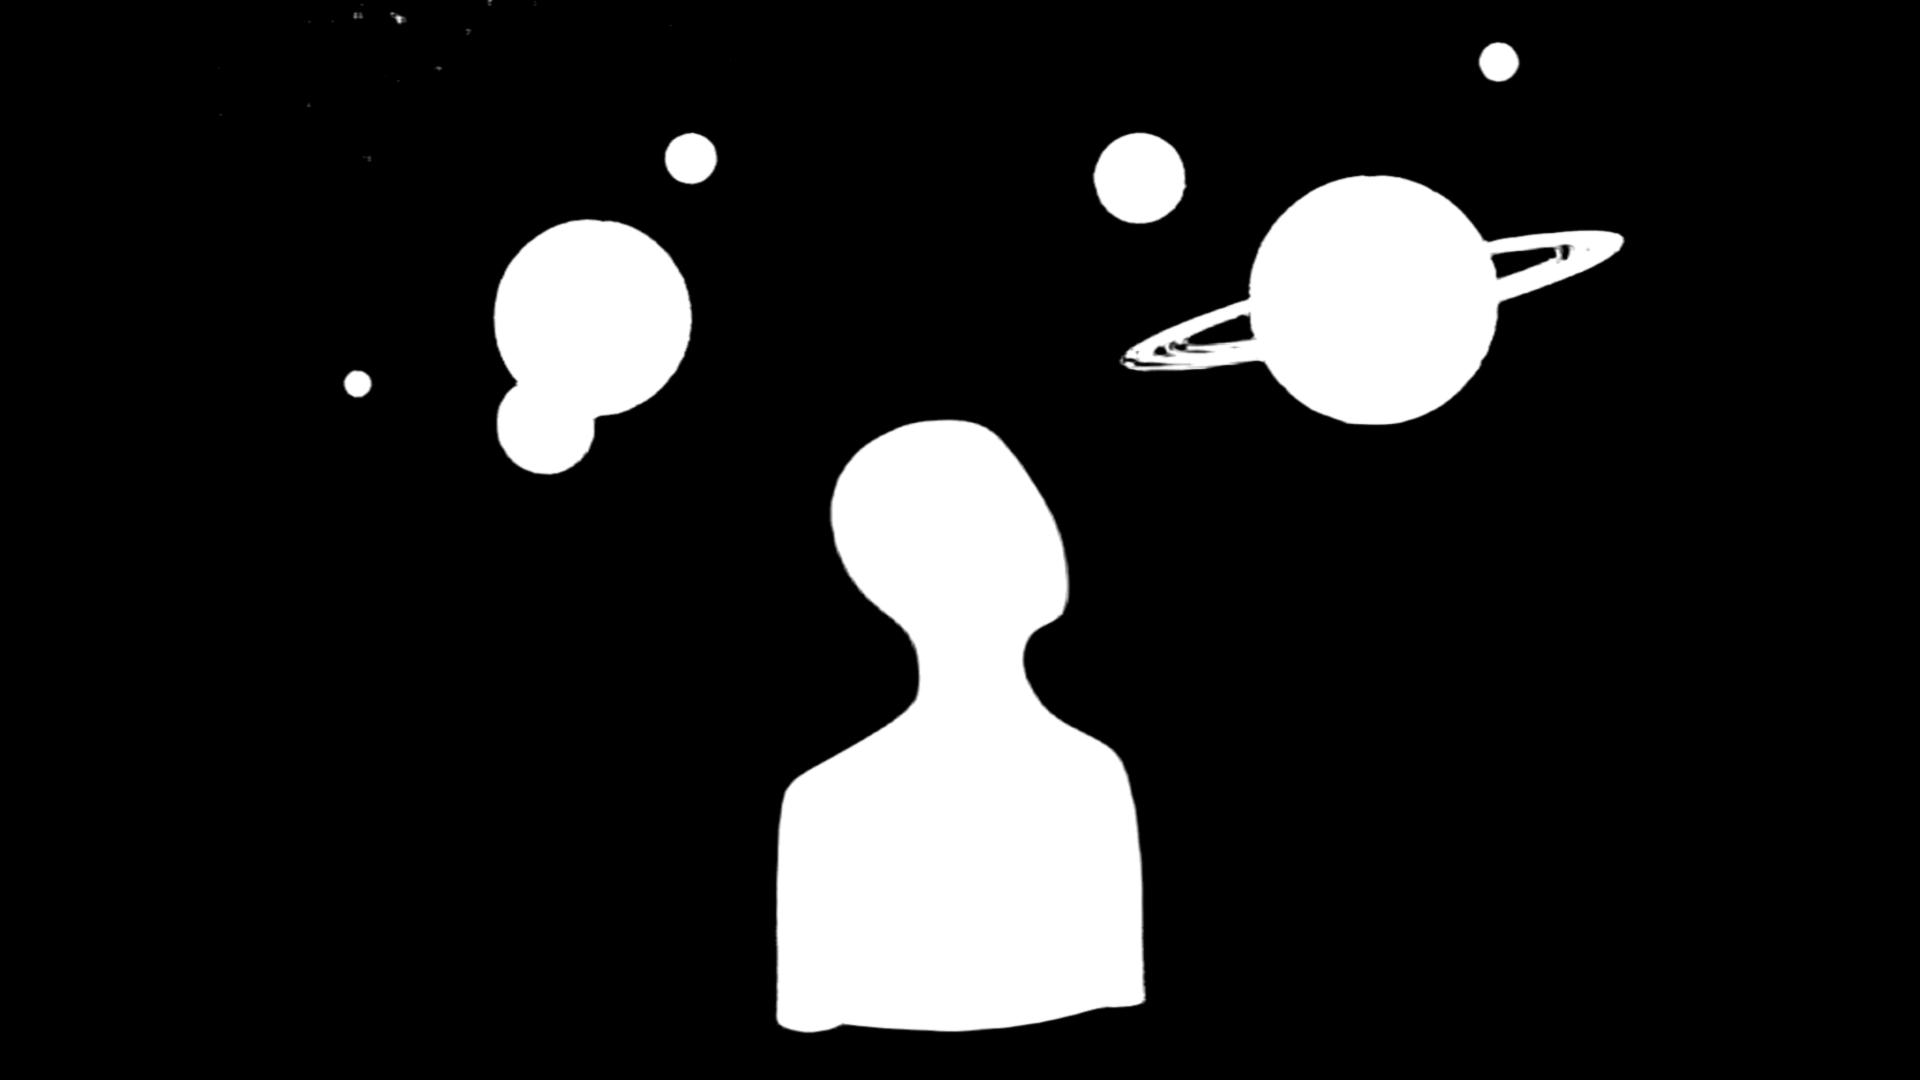
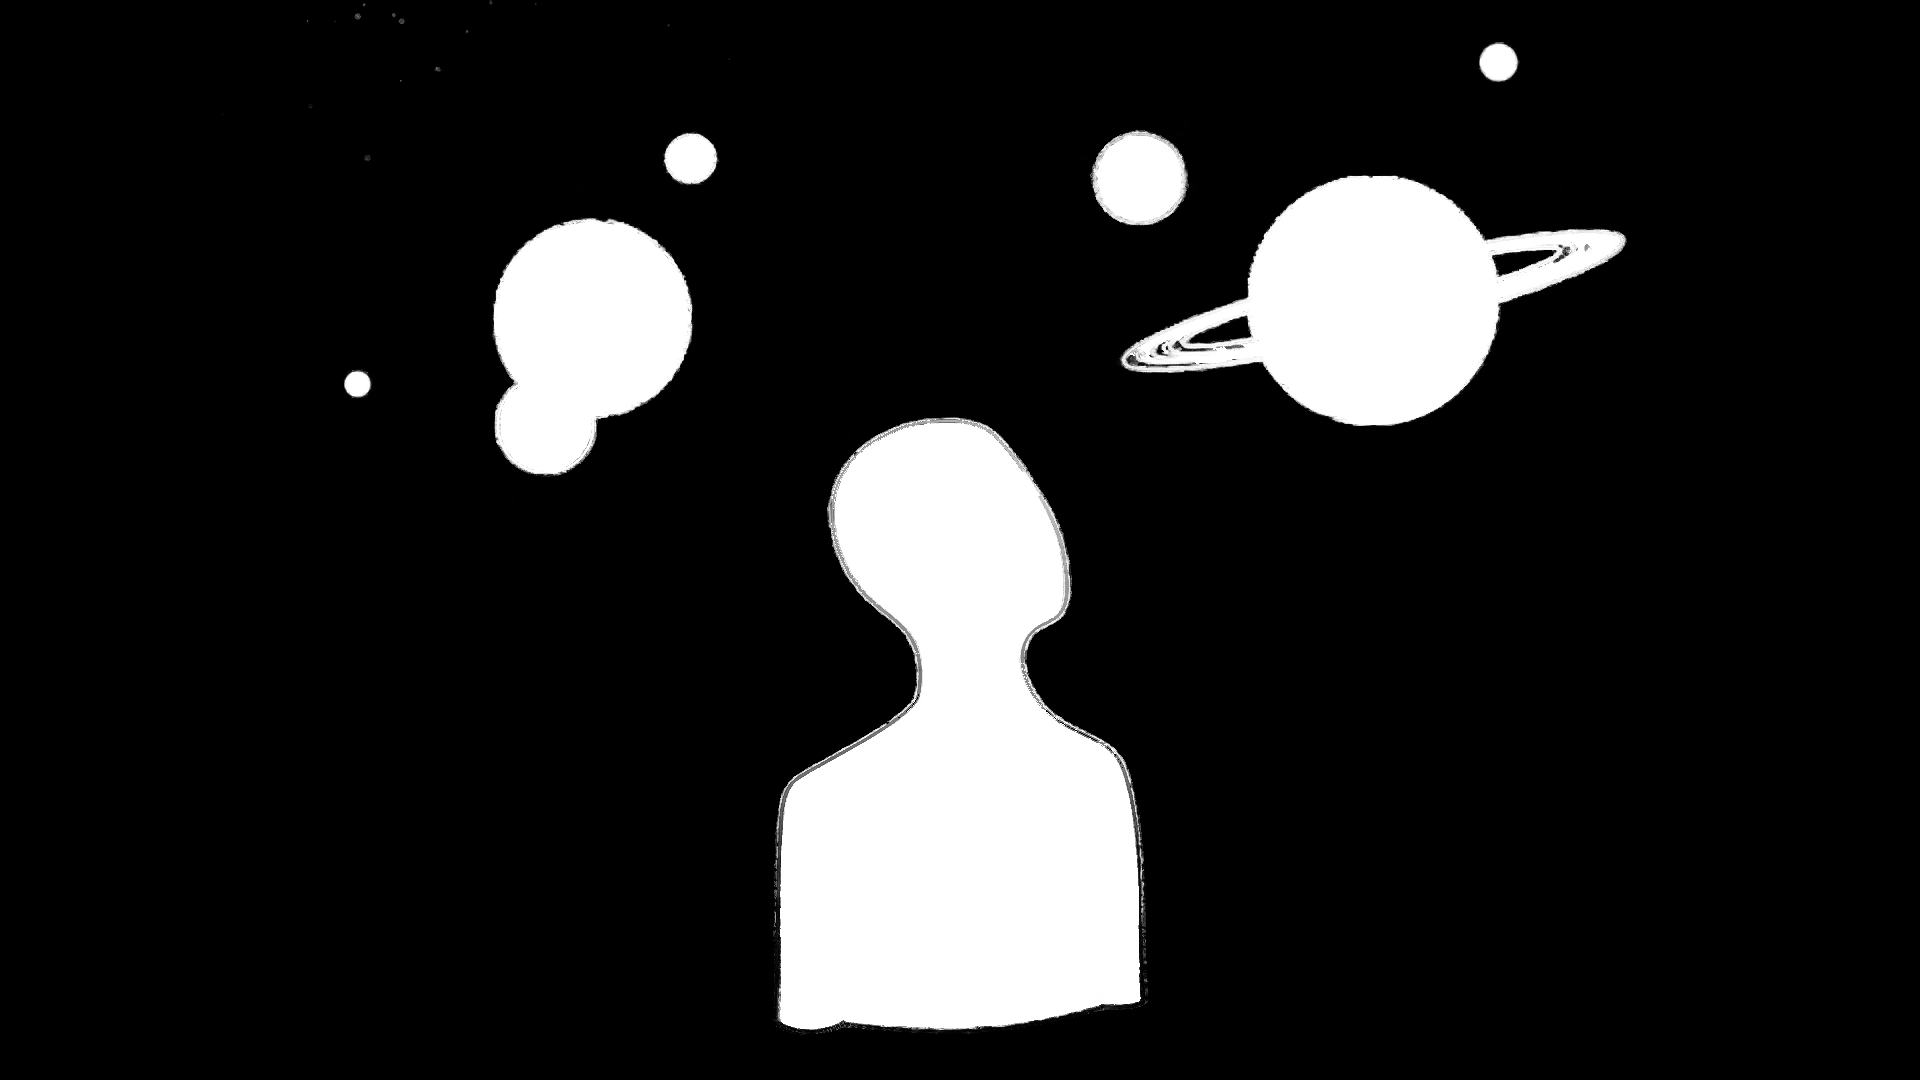
lock: crisp depth cut-outs, see-through holes in the antenna dishes
Blur: BiRefNet only sees 1024x1024. masks.py stretched its answer to 2560 px,
Gaussian-blurred it (0.6) and kept the model's soft ramp; lockgen then
stretched that again (bilinear) to each monitor, so the subject's edge was a
6-10 px feather on the 3440 px screen. The cut-out colour was never blurred.

masks.py now upsamples the prediction with a colour guided filter (edges land
on the image's own edges), KNN-mattes a thin band along the edge plus whatever
the model is unsure of (thin wires), drops matting specks, and stores the mask
at the image's resolution (up to 3840 px), 0/1 elsewhere. lockgen scales it per
monitor with Lanczos and redraws the edge [depth] edge_softness px wide
(signed distance from the 50% contour; default 1.0 = one antialiased pixel,
0 = the stored mask as is).

Holes: [depth] holes = true (antenna) runs GrabCut (OpenCV, seeded with the
mask, remove-only) to find the gaps BiRefNet paints as subject (missing dish
panels, lattice, gaps between struts), then mattes them, so the sky and the
clock behind show through while the rim wire and struts stay. Tiling the image
for a higher-res BiRefNet pass was tried and dropped (tiles lose context).

All 20 subject masks regenerated (865 -> 1380 KiB). Needs opencv-python-headless
in the masks venv for --holes. Old masks: ~/lock-masks-bak-2026-09-30-crisp/.

diff --git a/scripts/lock/masks.py b/scripts/lock/masks.py
@@ -1,7 +1,7 @@
 #!/usr/bin/env python3
 """Make the lock screen's depth masks for still wallpapers, locally (no uploads).
 
-  masks.py [--model birefnet-general] [--force] [--width 2560] [STEM ...]
+  masks.py [--model birefnet-general] [--force] [--width 3840] [--holes] [STEM ...]
 
 For each wallpaper folder (all stills when no STEM is given) this writes
 wallpapers/<stem>/lock/fg-mask.png: an 8-bit greyscale mask, same aspect as the
@@ -9,12 +9,27 @@ image, white = the subject. lock.toml's [depth] foreground points at it, and
 text with depth = "behind" is drawn under the subject (see README.md).
 
 Segmentation is BiRefNet through rembg (open source, CPU, runs offline once the
-model is cached in ~/.rembg). rembg is not a dependency of the lock itself; this
-script re-runs itself with the venv in ~/.local/share/lockmask when the current
-Python lacks it. Set that venv up once with:
+model is cached in ~/.rembg). The model only ever sees 1024x1024, so its mask is
+coarse; it is upsampled to the image (up to --width px) with a colour guided
+filter, which moves the edges onto the image's own, and a thin band along the
+edge is then alpha-matted (KNN matting, PyMatting) against the image, so the
+mask is crisp and 0/1 everywhere else (no haze, no feather).
+(Tiling the image for a higher-res pass was tried: the tiles lose the context and
+drop or invent subjects.) lockgen.py then sharpens the edge per monitor
+([depth] edge_softness).
+
+--holes (or `holes = true` under [depth] in the wallpaper's lock.toml): BiRefNet
+fills see-through gaps (lattices, missing panels, gaps between struts) with the
+subject. This pass runs GrabCut (colour models + graph cut, OpenCV) seeded with
+the mask and only ever removes: whatever inside the mask matches the sky/ground
+around it becomes background.
+
+rembg is not a dependency of the lock itself; this script re-runs itself with the
+venv in ~/.local/share/lockmask when the current Python lacks it. Set that venv
+up once with:
 
   uv venv --python 3.12 ~/.local/share/lockmask/.venv
-  uv pip install --python ~/.local/share/lockmask/.venv/bin/python "rembg[cpu]"
+  uv pip install --python ~/.local/share/lockmask/.venv/bin/python "rembg[cpu]" opencv-python-headless
 
 Background masks (lock/bg-mask.png, white = the far plane, i.e. the sky) suit
 silhouettes against a bright sky, where a subject model finds nothing:
@@ -50,17 +65,114 @@ def image_of(folder):
     return None
 
 
-def subject_mask(session, src, width):
-    from rembg import remove
+def box(x, r):
+    import cv2
+    return cv2.boxFilter(x, -1, (2 * r + 1, 2 * r + 1), borderType=cv2.BORDER_REFLECT)
+
+
+def guided_filter(img, p, r, eps):
+    """Colour guided filter (He et al.): p smoothed where img is flat, its edges
+    moved onto img's edges. img HxWx3 and p HxW, float32 0-1."""
+    import numpy as np
+    mean_i = box(img, r)
+    mean_p = box(p, r)
+    cov_ip = box(img * p[..., None], r) - mean_i * mean_p[..., None]
+    var = box(np.einsum("hwi,hwj->hwij", img, img).reshape(*p.shape, 9), r).reshape(*p.shape, 3, 3)
+    var -= np.einsum("hwi,hwj->hwij", mean_i, mean_i)
+    var += eps * np.eye(3, dtype=np.float32)
+    a = np.linalg.solve(var, cov_ip[..., None])[..., 0]
+    b = mean_p - (a * mean_i).sum(-1)
+    return (box(a, r) * img).sum(-1) + box(b, r)
+
+
+def hole_mask(img, fg):
+    """Pixels of the binary subject mask `fg` that GrabCut, seeded with it, puts
+    in the background: the gaps the model filled in. img HxWx3 uint8 RGB."""
+    import cv2
+    import numpy as np
+    from scipy import ndimage as ndi
+    h, w = fg.shape
+    near = ndi.distance_transform_edt(~fg) < w * 0.02
+    lab = np.full((h, w), cv2.GC_BGD, np.uint8)
+    lab[near] = cv2.GC_PR_BGD
+    lab[fg] = cv2.GC_PR_FGD
+    ys, xs = np.nonzero(ndi.binary_dilation(near, iterations=round(w * 0.01)))
+    y0, y1, x0, x1 = ys.min(), ys.max() + 1, xs.min(), xs.max() + 1
+    crop = lab[y0:y1, x0:x1].copy()
+    cv2.grabCut(np.ascontiguousarray(img[y0:y1, x0:x1, ::-1]), crop, None,
+                np.zeros((1, 65)), np.zeros((1, 65)), 5, cv2.GC_INIT_WITH_MASK)
+    keep = np.zeros((h, w), bool)
+    keep[y0:y1, x0:x1] = (crop == cv2.GC_FGD) | (crop == cv2.GC_PR_FGD)
+    holes = fg & ~keep                     # only ever remove
+    # drop specks (texture GrabCut flips here and there)
+    lbl, n = ndi.label(holes)
+    if n:
+        sizes = ndi.sum(holes, lbl, range(1, n + 1))
+        holes = np.isin(lbl, 1 + np.nonzero(sizes >= (w / 1000) ** 2 * 6)[0])
+    return holes
+
+
+def depth_conf(folder):
+    """[depth] of the wallpaper's lock.toml ({} if none)."""
+    import tomllib
+    try:
+        with open(folder / "lock.toml", "rb") as fh:
+            return tomllib.load(fh).get("depth", {})
+    except (OSError, ValueError):
+        return {}
+
+
+def subject_mask(session, src, width, holes=False):
+    import numpy as np
+    from scipy import ndimage as ndi
     im = Image.open(src).convert("RGB")
     w = min(width, im.width)
     h = round(im.height * w / im.width)
-    small = im.resize((w, h), Image.LANCZOS)
-    m = remove(small, session=session, only_mask=True)
-    m = m.convert("L")
-    # Clean up: drop faint haze the model half-selects, keep soft edges.
-    m = m.point(lambda v: 0 if v < 24 else 255 if v > 232 else v)
-    return m.filter(ImageFilter.GaussianBlur(0.6))
+    img = np.asarray(im.resize((w, h), Image.LANCZOS))
+    # The model sees 1024x1024 whatever it is given (rembg resizes; a 2560 px
+    # input, as the first masks had: BiRefNet's picks change with the resampling).
+    # Upsample its answer smoothly, then the guided filter puts the edges on the image's.
+    sw = min(2560, im.width)
+    small = im.resize((sw, round(im.height * sw / im.width)), Image.LANCZOS)
+    pred = session.predict(small)[0].convert("L")
+    p = np.asarray(pred.resize((w, h), Image.BICUBIC), dtype=np.float32) / 255
+    rgb = img.astype(np.float32) / 255
+    fg = guided_filter(rgb, p, max(2, round(w / 1024 * 1.5)), 1e-4) > 0.5
+    unknown = np.zeros_like(fg)
+    if holes:
+        hole = hole_mask(img, fg)
+        print(f"  holes: {hole.mean() * 100:.2f}% of the image", flush=True)
+        unknown |= ndi.binary_dilation(hole, iterations=2)
+    # Matte the edge (a thin band either side) and the holes: KNN matting picks
+    # each pixel's alpha from the colours of the sure subject/sure background
+    # around it, non-locally, so a strut or wire across a hole stays and the sky
+    # between them goes. Everything else is 0 or 1: no haze, no feather.
+    band = max(2, round(3 * w / 3840))
+    unknown |= ndi.binary_dilation(fg, iterations=band) & ~ndi.binary_erosion(fg, iterations=band)
+    # what the model is unsure of (thin wires come out at 0.2-0.6), same treatment
+    unknown |= ndi.binary_dilation((p > 0.1) & (p < 0.95), iterations=band)
+    alpha = fg.astype(np.float32)
+    ys, xs = np.nonzero(unknown)
+    if len(ys):
+        from pymatting import estimate_alpha_knn
+        pad = 8 * band
+        y0, y1 = max(0, ys.min() - pad), min(h, ys.max() + pad + 1)
+        x0, x1 = max(0, xs.min() - pad), min(w, xs.max() + pad + 1)
+        tri = fg[y0:y1, x0:x1].astype(np.float64)
+        tri[unknown[y0:y1, x0:x1]] = 0.5
+        a = estimate_alpha_knn(rgb[y0:y1, x0:x1].astype(np.float64), tri)
+        alpha[y0:y1, x0:x1] = np.clip(a, 0, 1)
+        # matting leaves the odd speck on soft, glowy edges: drop tiny islands
+        # of subject in the background and of background in the subject
+        speck = max(4, round(8 * (w / 3840) ** 2))
+        for inside, fill in ((alpha > 0.5, 0.0), (alpha <= 0.5, 1.0)):
+            lbl, n = ndi.label(inside)
+            if n:
+                sizes = ndi.sum(inside, lbl, range(1, n + 1))
+                small = 1 + np.nonzero(sizes < speck)[0]
+                alpha[np.isin(lbl, small) & unknown] = fill
+    # lockgen.py redraws the edge ~1 px wide per monitor ([depth] edge_softness)
+    return Image.fromarray((alpha * 255 + 0.5).astype(np.uint8))
 
 
 def sky_mask(src, width, dark):
@@ -87,7 +199,8 @@ def main():
     ap = argparse.ArgumentParser(description=__doc__, formatter_class=argparse.RawDescriptionHelpFormatter)
     ap.add_argument("stems", nargs="*")
     ap.add_argument("--model", default="birefnet-general")
-    ap.add_argument("--width", type=int, default=2560, help="mask width (px), height follows the image")
+    ap.add_argument("--width", type=int, default=3840, help="max mask width (px), height follows the image")
+    ap.add_argument("--holes", action="store_true", help="also clear see-through gaps (GrabCut pass)")
     ap.add_argument("--force", action="store_true", help="remake masks that exist")
     ap.add_argument("--invert", action="store_true", help="write lock/bg-mask.png = inverse of fg-mask.png")
     ap.add_argument("--sky", action="store_true", help="write lock/bg-mask.png from the skyline (no model)")
@@ -125,7 +238,8 @@ def main():
             print(f"{f.name}: exists")
             continue
         out.parent.mkdir(exist_ok=True)
-        subject_mask(session, src, a.width).save(out, optimize=True)
+        holes = a.holes or bool(depth_conf(f).get("holes"))
+        subject_mask(session, src, a.width, holes).save(out, optimize=True)
         print(f"{f.name}: {out.relative_to(WALLPAPERS)} ({out.stat().st_size // 1024} KiB)", flush=True)
 
 

diff --git a/scripts/lock/lockgen.py b/scripts/lock/lockgen.py
@@ -230,6 +230,22 @@ SHADE_TOP = (0.9 * 0x59 / 255, 0.40)
 SHADE_BOTTOM = (0.9 * 0x66 / 255, 0.45)
 
 
+def crisp_edge(m, soft):
+    """Re-draw a soft 8-bit mask's edge `soft` px wide (at screen resolution).
+    (a - 0.5) / |grad a| is roughly the signed distance (px) to the mask's 50%
+    contour, so this keeps the outline where it is and only tightens the ramp
+    across it: a resampled/feathered edge several px wide becomes a ~1 px
+    antialiased one. Flat areas (0/1) stay as they are."""
+    import numpy as np
+    from PIL import Image, ImageFilter
+    # a touch of blur first, so the gradient is not pixel noise (jaggies, specks)
+    a = np.asarray(Image.fromarray(m).filter(ImageFilter.GaussianBlur(0.6)), dtype=np.float32) / 255
+    gy, gx = np.gradient(a)
+    d = (a - 0.5) / np.maximum(np.hypot(gx, gy), 1e-3)
+    out = np.clip(0.5 + d / soft, 0, 1)
+    return (out * 255 + 0.5).astype(np.uint8)
+
+
 def depth_layers(wall, bg, meta, w, h):
     """[depth] foreground/background masks -> per-monitor RGBA cut-outs of the
     background (same cover crop, brightness and shade baked in) and the
@@ -257,9 +273,10 @@ def depth_layers(wall, bg, meta, w, h):
         return {}
     Image.MAX_IMAGE_PIXELS = None
     bright = max(0.0, min(1.0, float(meta.get("background", {}).get("brightness", 1.0))))
+    soft = max(0.0, float(dm.get("edge_softness", 1.0)))
     src = Path(bg["image"])
     stamp = "|".join(f"{p}:{p.stat().st_mtime_ns}" for p in [src, *masks.values()])
-    key = hashlib.md5(f"{stamp}|{w}x{h}|{bright}|v1".encode()).hexdigest()[:16]
+    key = hashlib.md5(f"{stamp}|{w}x{h}|{bright}|{soft}|v2".encode()).hexdigest()[:16]
     outdir = STATE / "depth"
     outdir.mkdir(parents=True, exist_ok=True)
     out = {}
@@ -269,7 +286,8 @@ def depth_layers(wall, bg, meta, w, h):
 
     def fit(p):
         if p not in fits:
-            fits[p] = np.asarray(ImageOps.fit(Image.open(p).convert("L"), (w, h), Image.BILINEAR))
+            m = np.asarray(ImageOps.fit(Image.open(p).convert("L"), (w, h), Image.LANCZOS))
+            fits[p] = crisp_edge(m, soft) if soft > 0 else m
         return fits[p]
 
     if not all(p.is_file() for p in todo.values()):

diff --git a/scripts/lock/README.md b/scripts/lock/README.md
@@ -85,6 +85,26 @@ the model is cached; set-up in its docstring): `masks.py STEM` for a subject,
 `masks.py --sky [--dark 0.1] STEM` for a skyline/treeline silhouette. 20
 wallpapers use a foreground mask, canaveral1 and evening_light a sky mask.
 
+**Crisp edges (2026-09-30).** The first masks were soft: BiRefNet only sees
+1024x1024, its answer was stretched to 2560 px, blurred (Gaussian 0.6), then
+stretched again (bilinear) to the monitor, so a 2-3 px model edge became a
+6-10 px ramp on a 3440 px screen. Now masks.py upsamples it with a colour guided
+filter onto the image's own edges, alpha-mattes a thin band along the edge (and
+whatever the model was unsure of, e.g. wires) with KNN matting, and stores the
+mask at the image's resolution (up to 3840 px), 0/1 everywhere else. lockgen.py
+then scales it per monitor (Lanczos) and redraws the edge `[depth]
+edge_softness` px wide (default 1.0: one antialiased pixel; 0 = the stored mask
+as is). The cut-out's colour is never blurred: it is the same Lanczos
+cover-crop as the background.
+
+**Holes.** BiRefNet paints see-through gaps (a dish's missing panels, lattices,
+gaps between struts) as subject. `holes = true` under `[depth]` (antenna) makes
+masks.py run GrabCut (OpenCV, seeded with the mask, remove-only) to find them and
+matte them, so the sky shows through and text behind the subject shows in the
+gaps; thin members (wires, struts) survive the matting. Needs
+`opencv-python-headless` in the masks venv. Old masks:
+`~/lock-masks-bak-2026-09-30-crisp/`.
+
 ## Testing safely
 
 - `lock.sh --preview [DIR]`: renders each monitor offscreen to `DIR/<monitor>.png`
